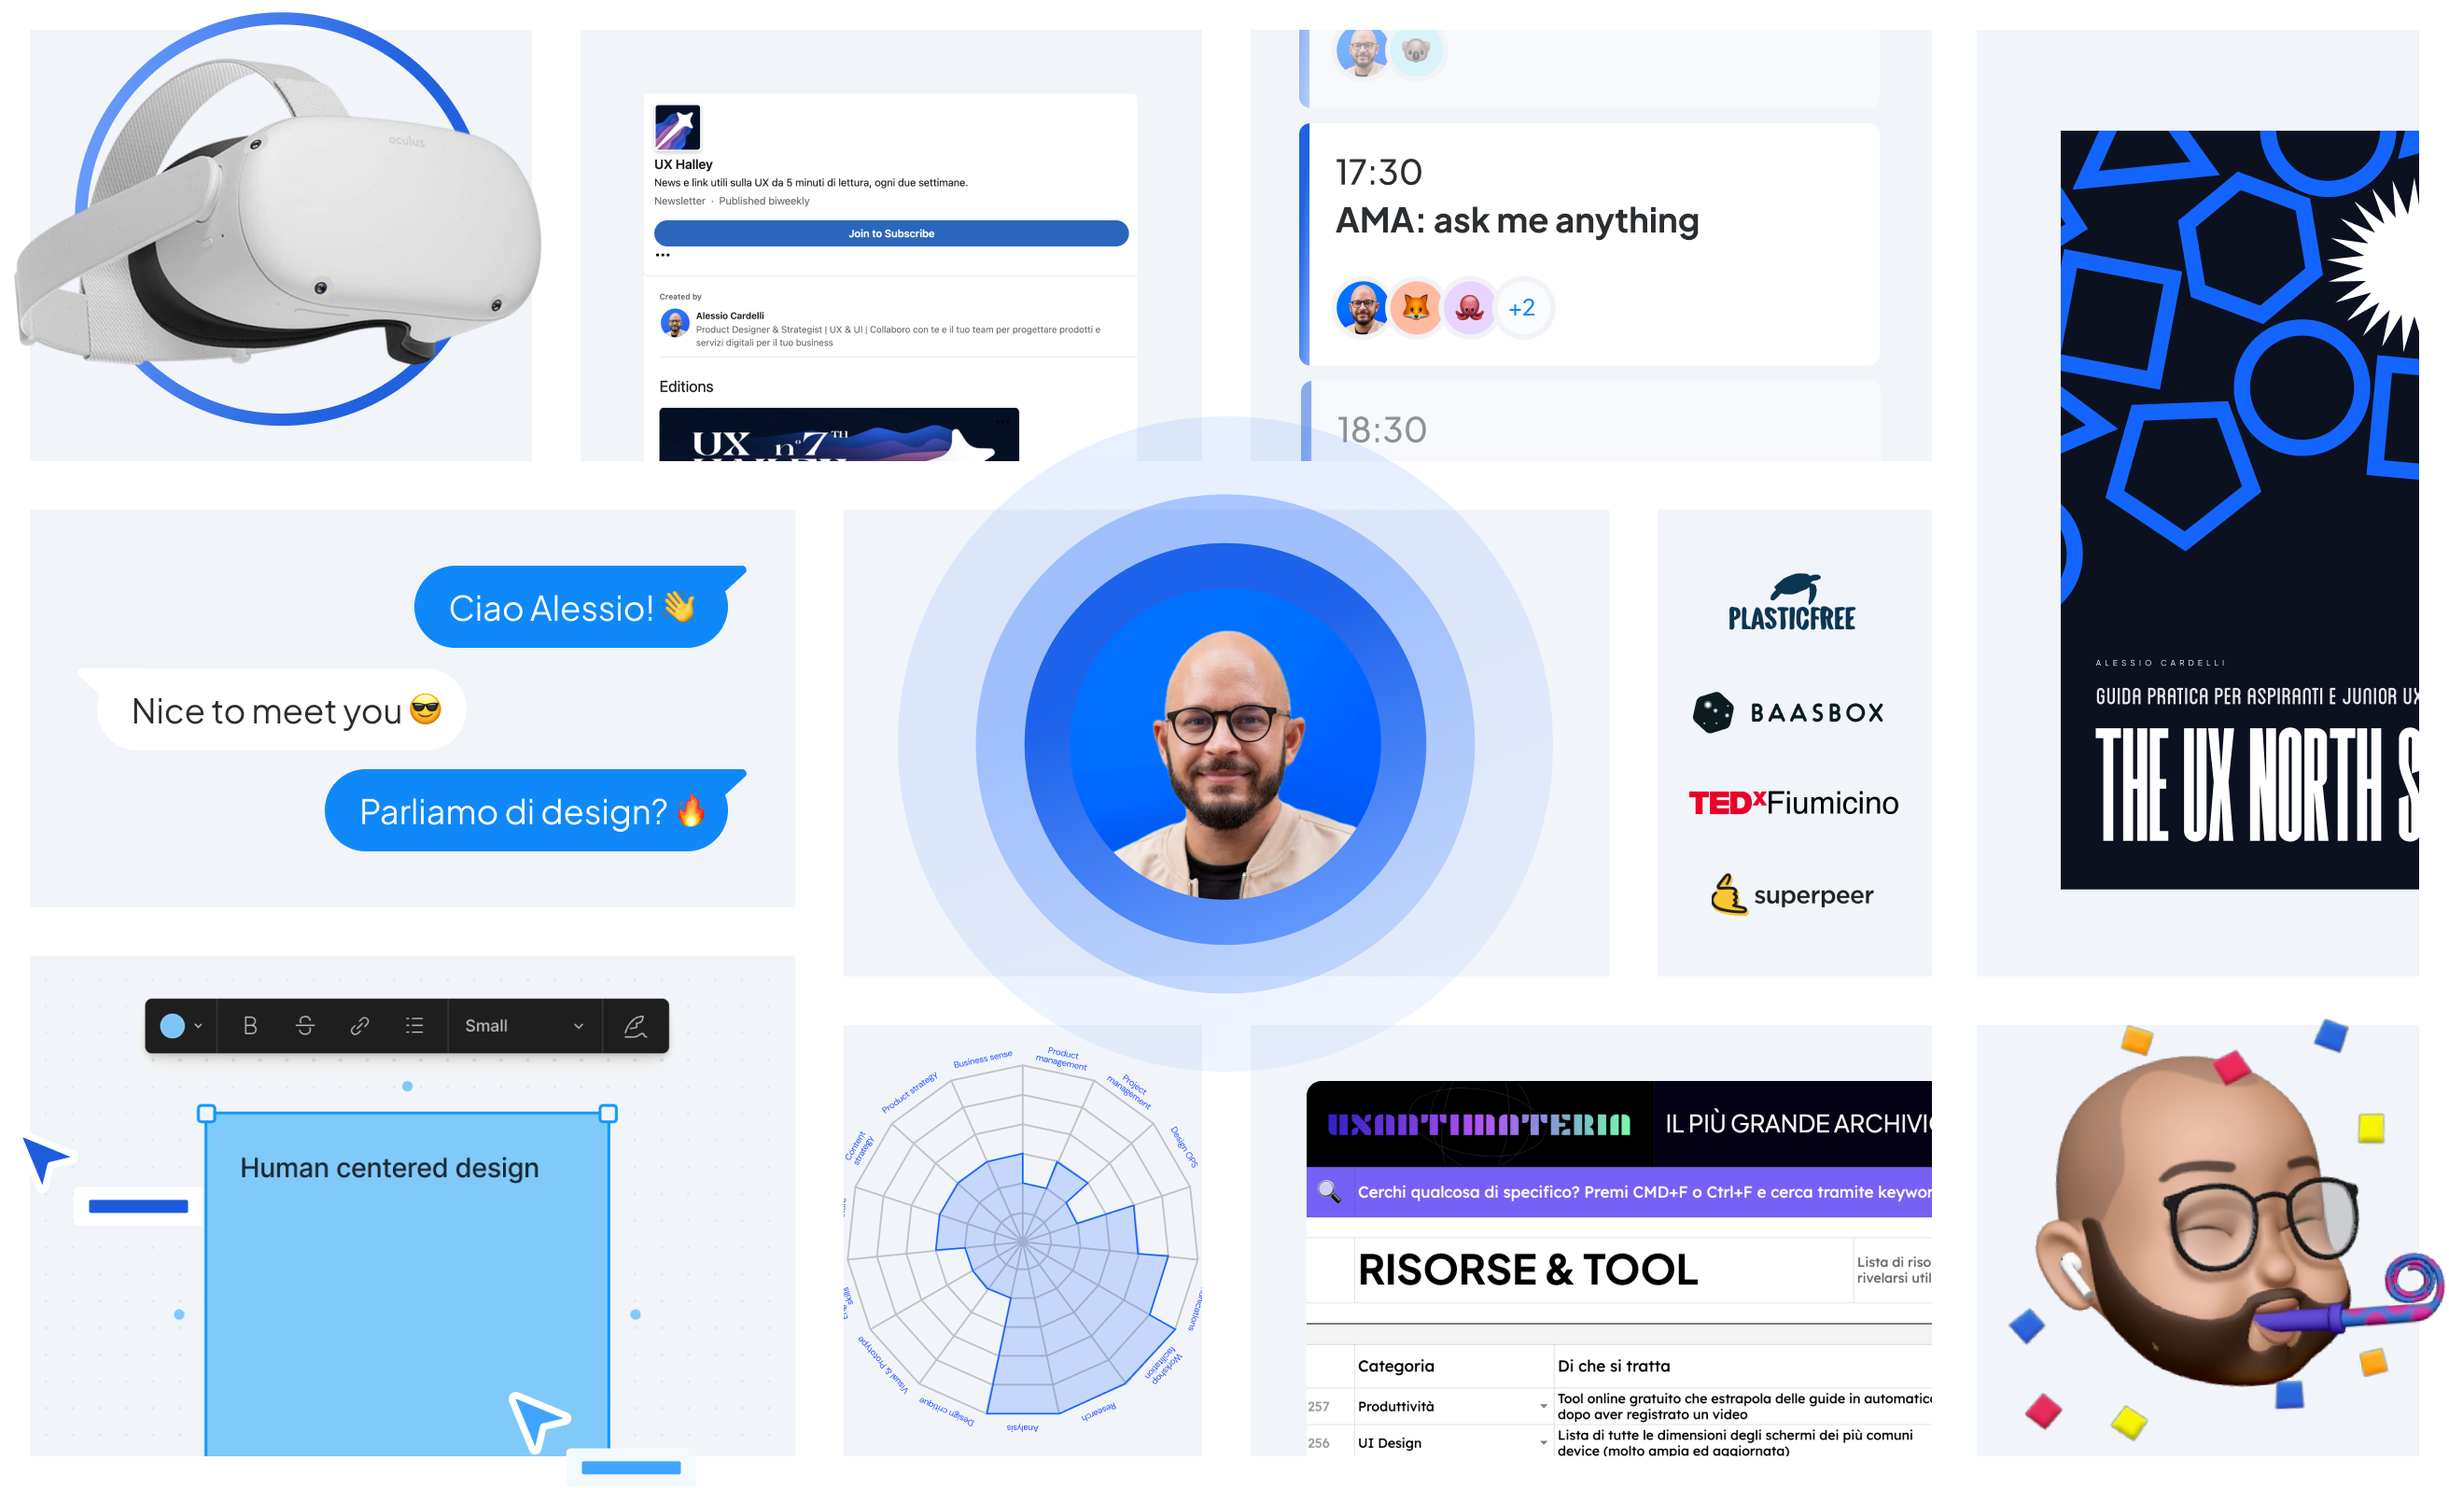
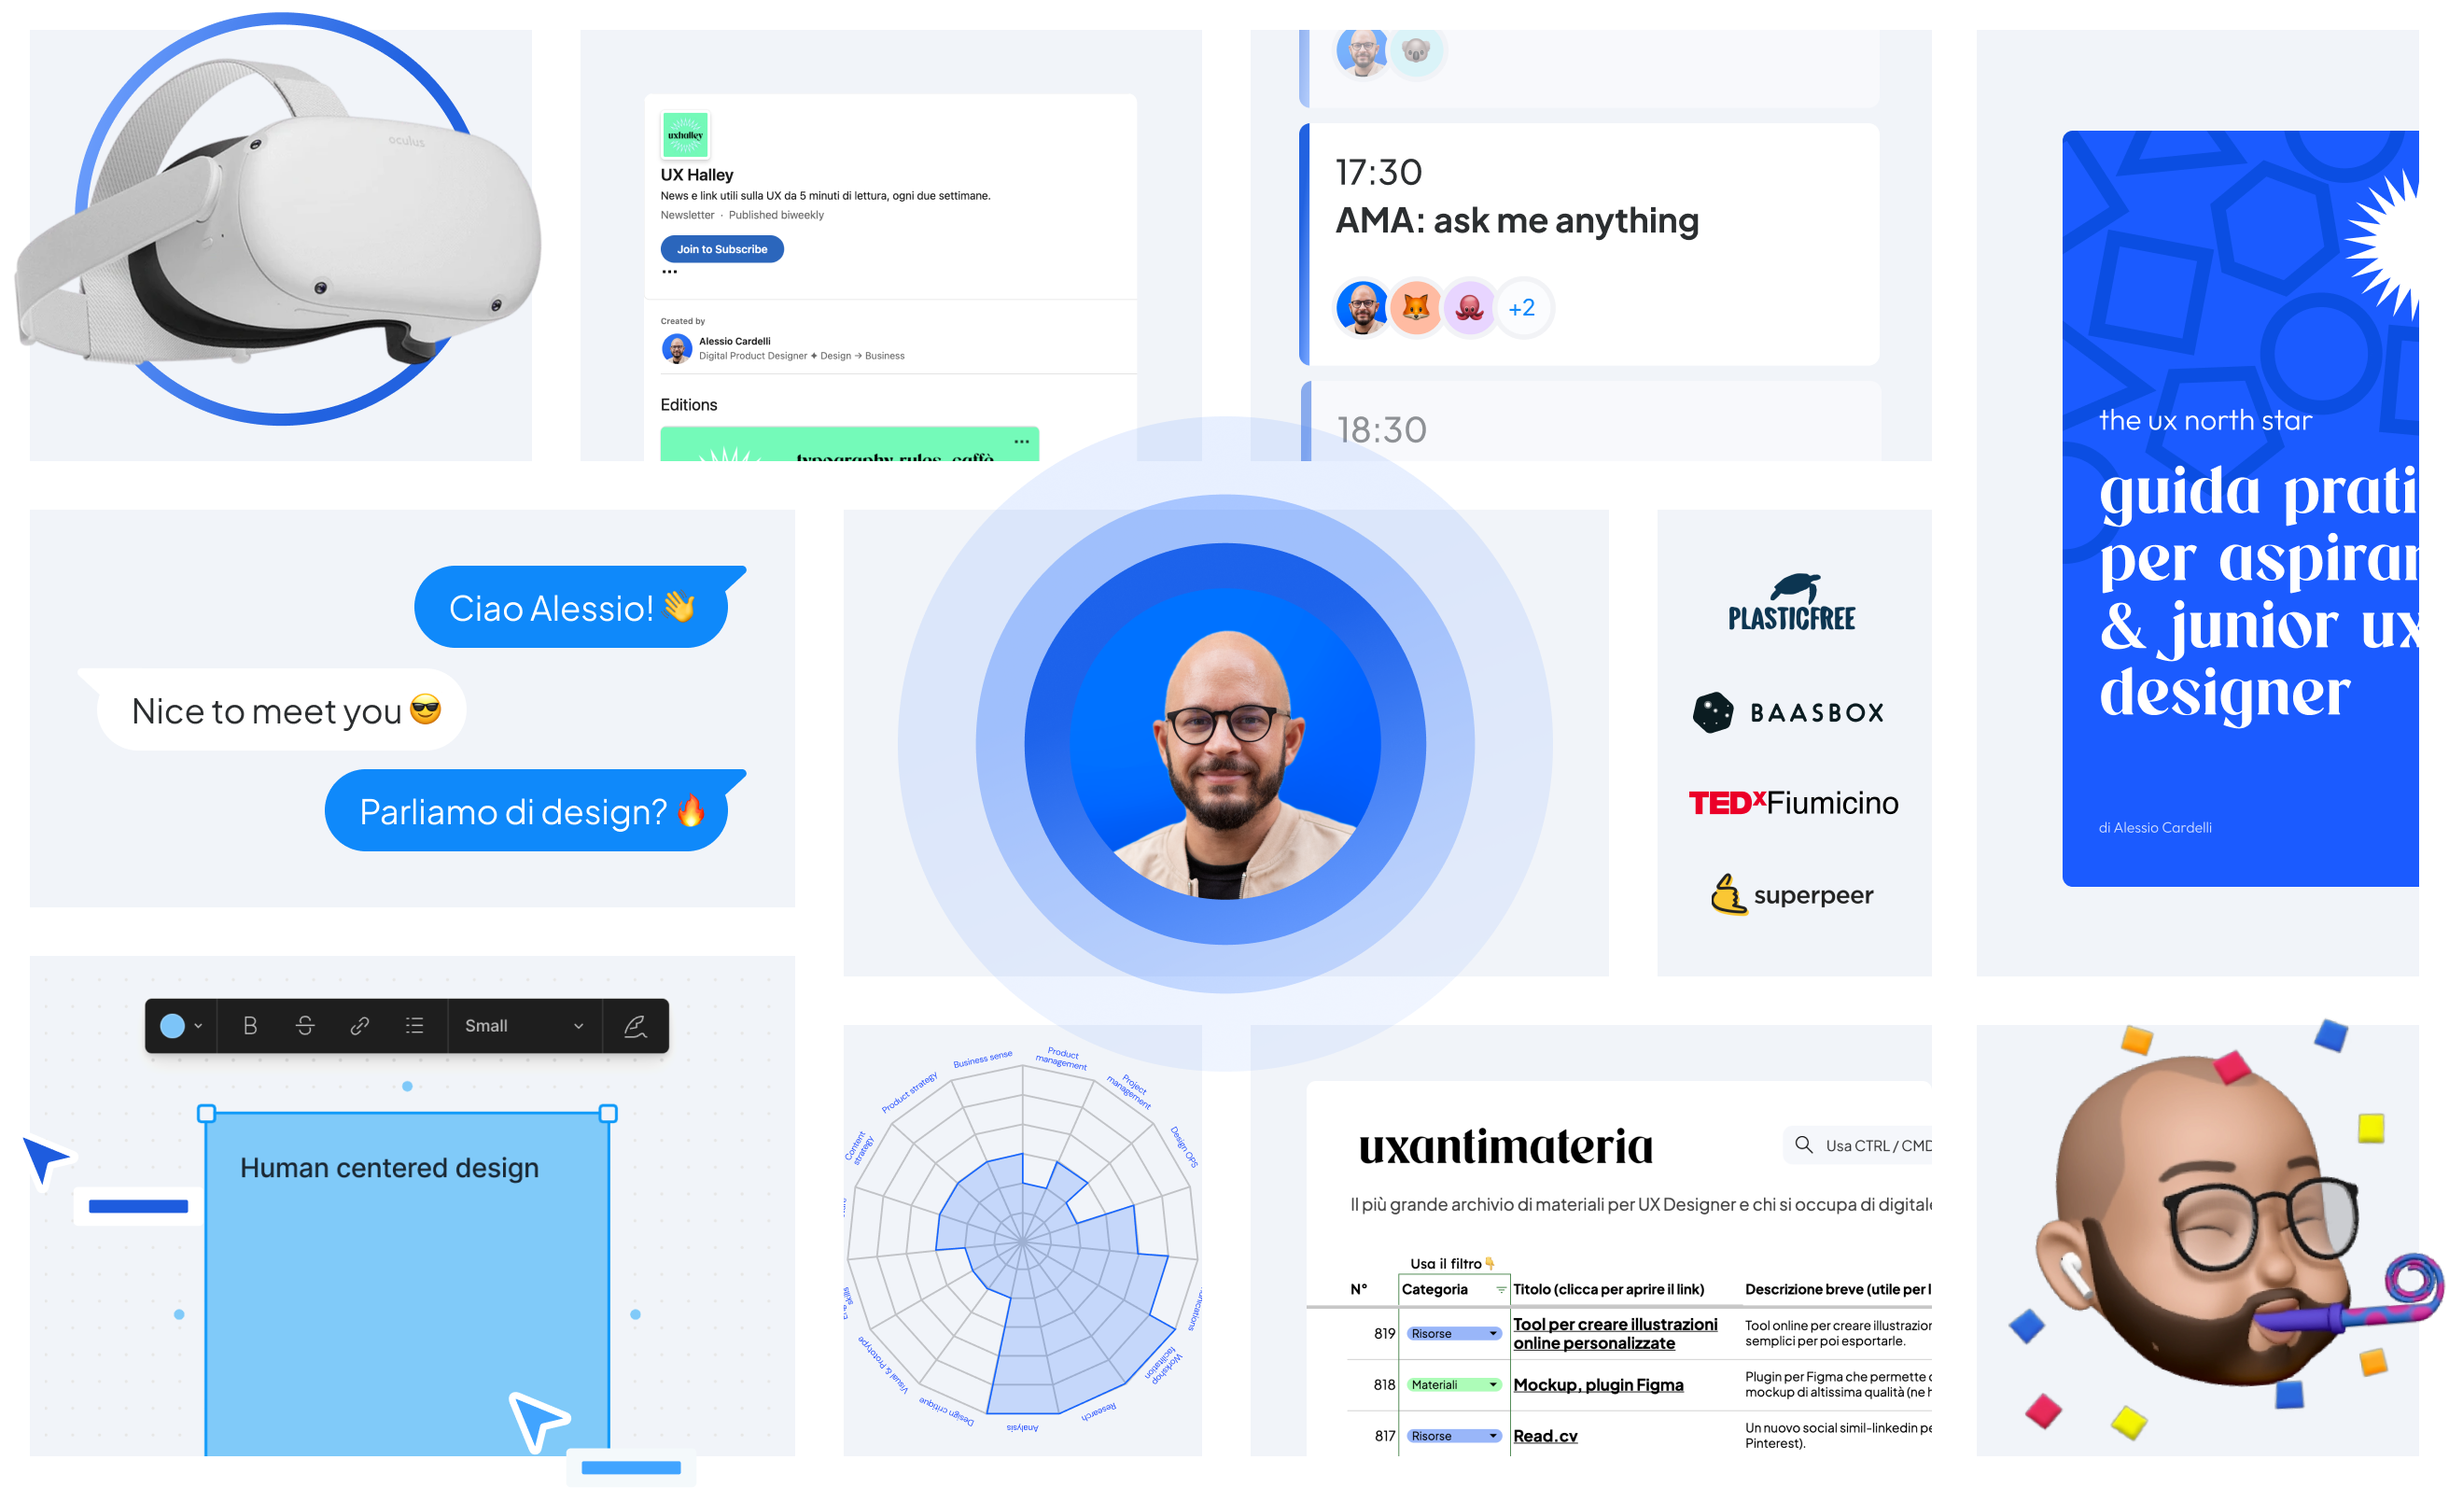
Versione 5.0

Changed region(s): [[0.8438, 0.0615, 1.0, 0.6148], [0.5312, 0.707, 0.8125, 0.9837], [0.25, 0.0615, 0.4688, 0.3074]]

diff --git a/theuxns.html b/theuxns.html
@@ -65,17 +65,19 @@ xxx
   </div>
   <div class="menu-mobile">menu</div>
 </div>
+
+<div class="fab"><a href="newsletter.html" title="Newsletter Substack di Alessio Cardelli" target="_blank"></a></div>
 <!-- - - - - - - - - - - - - - - - - - - - - - MENU - - - - - - - - - - - - - - - - - - - - -->
 <!--
 xxx
 xxx
  -->
 <!-- - - - - - - - - - - - - - - - - - - - - - CONTENUTO - - - - - - - - - - - - - - - - - - - - -->
-<h1 class="big-title">The UX North star, un progetto a +360°.</h1>
+<h1 class="big-title">Dare supporto alla carriera di 1 milione di designer.</h1>
 <div class="quote-group quote-group-home">
-  <img class="foto-quote" src="assets/theuxns/theuxns-profilo.png" alt="Immagine di Alessio Cardelli in primo piano su sfondo blu"></img>
-  <h2 class="quote-bold">Dedicato a junior e aspiranti UX designer, una suite di contenuti di alta qualità e dal grande valore, per fornire un boost a chi ne ha bisogno.</h2>
-  <h3 class="quote-regular">Trovare la propria strada per inserirsi in un nuovo mondo lavorativo non è semplice, che tu sia junior o stia facendo uno switch di carriera. Per questo motivo ho creato il progetto The UX North Star, che propone una serie di contenuti per chi vuole fare i primi passi.</h3>
+  <img class="foto-quote" src="assets/general/alessio.png" alt="Immagine di Alessio Cardelli in primo piano su sfondo blu"></img>
+  <h2 class="quote-bold">È questo uno dei miei obiettivi professionali: supportare 1 milione di designer nella propria carriera, crescita e formazione.</h2>
+  <h3 class="quote-regular">Trovare la propria strada per inserirsi in un nuovo mondo lavorativo non è semplice, che tu sia junior o stia facendo uno switch di carriera. Per questo motivo ho creato queste iniziative editoriali e formative, una serie di contenuti per designer di ogni livello.</h3>
 </div>
 <!-- - - - - - - - - - - - - - - - - - - - - - SEPARATORE - - - - - - - - - - - - - - - - - - - - -->
 <div class="photo-grid margin-bottom-80 reveal">
@@ -89,12 +91,12 @@ xxx
   <img class="photo-img" src="assets/theuxns/libro_3.png" alt="Immagine di uno dei touchpoint de The UX North Star"></img>
   </div>
 </div>
-<h2 class="testo-big">Il libro, per rispondere alle domande sulla UX.</h2>
+<h2 class="testo-big">The UX North Star, guida pratica per UX designer.</h2>
 <p class="testo margin-bottom-80">Consigli pratici ed esperienze reali per percorrere i primi passi e trovare la direzione della propria formazione e carriera nel mondo della user experience e della progettazione di prodotti digitali.
 <br><br>
 Letto, recensito  e apprezzato già da decine di UX designer, sia junior che senior con più esperienza alle spalle. Un must to have nella propria libreria per un vero boost alla propria carriera.
 <br><br>
-<strong>+50 recensioni con una media di 4.9 ⭐</strong></p>
+<strong>+75 recensioni con una media di 4.9 ⭐</strong></p>
 <div class="content-list">
   <div class="content-box"><p class="content-text"><a target="_blank" class="link" href="libroux.html" title="Link alla pagina Amazon de The UX North Star, il libro">Acquista il libro su Amazon ↗</a></p><p class="content-sub">Puoi sceglierlo tra formato cartaceo o digitale, ce n’è per tutti i gusti.</p></div>
   <div class="content-box"><p class="content-text"><a target="_blank" class="link" href="https://www.kobo.com/it/it/ebook/the-ux-north-star" title="Link alla pagina Kobo de The UX North Star, il libro">Acquista il libro per Kobo ↗</a></p><p class="content-sub">Solo in formato digitale per Kobo Rakuten.</p></div>
@@ -114,7 +116,7 @@ Letto, recensito  e apprezzato già da decine di UX designer, sia junior che sen
 <h2 class="testo-big">UX Halley, la newsletter per chi non vuole rimanere mai indietro.</h2>
 <p class="testo margin-bottom-80">Ogni 14 giorni, ogni due lunedì mattina, una decina di “chicche” sul design per meno di 5 minuti di lettura. Contenuti riguardo user experience, innovazione e tecnologia. Se ti interessano i link che trovi al suo interno poi te li approfondisci in autonomia, altrimenti lasci passare la cometa e attendi la prossima. Facile facile.
 <br><br>
-<strong>Siamo già +1000 persone, tu che fai?</strong></p>
+<strong>Siamo già +1500 persone, tu che fai?</strong></p>
 <div class="content-list">
   <div class="content-box"><p class="content-text"><a target="_blank" class="link" href="uxhalley.html" title="Link alla pagina di iscrizione per UX Halley, newsletter">Iscriviti gratuitamente a UX Halley ↗</a></p><p class="content-sub">Riceverai le prossime ma puoi sempre recuperare le precedenti se vuoi.</p></div>
 </div>
@@ -133,7 +135,7 @@ Letto, recensito  e apprezzato già da decine di UX designer, sia junior che sen
 <h2 class="testo-big">UX Antimateria, la sostanza più preziosa dell’universo della UX.</h2>
 <p class="testo margin-bottom-80">+800 risorse, categorizzate e ordinate per te, in continuo aggiornamento di settimana in settimana. In sostanza, se cerchi qualcosa, ti conviene farlo prima qui che su Google. Si tratta di un progetto collaborativo in cui anche tu se vuoi puoi contribuire: trovi qualcosa di interessante? Me lo condividi, io lo metto nel file con il tuo nome per darti il giusto spazio.
 <br><br>
-<strong>Già nelle mani di +500 designer, non te lo perdere!</strong></p>
+<strong>Già nelle mani di +1000 designer, non te lo perdere!</strong></p>
 <div class="content-list">
   <div class="content-box"><p class="content-text"><a target="_blank" class="link" href="uxantimateria.html" title="Link al form di richiesta accesso a UX Antimateria">Richiedi accesso a UX Antimateria ↗</a></p><p class="content-sub">Compila i dati e nel giro di poche ore ti condividerò il file (sì, lo faccio a mano uno per uno).</p></div>
 </div>

diff --git a/projects.html b/projects.html
@@ -82,9 +82,9 @@ xxx
   <div class="project-box reveal">
     <img class="project-img" src="assets/projects/theuxns.png" alt="Immagine di un progetto di Alessio Cardelli"></img>
     <div class="project-texts">
-      <h2 class="project-title">The UX North star project: contenuti di altissimo valore per aspiranti UX designer.</h2>
-      <p class="project-description">Quando si è agli inizi non è semplice, lo so bene. Per questo motivo ho creato questo progetto: contenuti, di diverso tipo, di grande valore, per lo più gratuiti, destinati a chi vuole fare i primi passi nel mondo della UX.
-      <br><br><a class="link" title="Link ad un progetto di Alessio Cardelli" href="theuxns.html">Scopri di più sul progetto  →</a></p>
+      <h2 class="project-title">The UX North Star, UX Halley, UX Antimateria: iniziative per designer.</h2>
+      <p class="project-description">Quando si è agli inizi non è semplice, lo so bene. Per questo motivo ho creato questi progetti: contenuti, di diverso tipo, di grande valore, per lo più gratuiti, destinati a chi vuole fare i primi passi nel mondo della UX.
+      <br><br><a class="link" title="Link ad un progetto di Alessio Cardelli" href="theuxns.html">Scopri di più sulle iniziative  →</a></p>
     </div>
   </div>
 <div class="project-box reveal">
@@ -103,20 +103,12 @@ xxx
     <br><br><a class="link" title="Link ad un progetto di Alessio Cardelli" href="openai.html">Scopri di più sul progetto  →</a></p>
   </div>
 </div>
-<div class="project-box reveal">
+<div class="project-box no-margin-bottom reveal">
   <img class="project-img" src="assets/projects/tedxfiumicino.png" alt="Immagine di un progetto di Alessio Cardelli"></img>
   <div class="project-texts">
     <h2 class="project-title">TEDxFiumicino: tra scienza, mare, cultura, cielo e innovazione.</h2>
     <p class="project-description">Sono licenziatario TEDxFiumicino e insieme ad un team eterogeneo, competente e visionario coopero per organizzare un (super) evento per la città di Fiumicino, che vede affrontare temi di cultura, scienza, informazione e futuro.
     <br><br><a class="link" target="_blank" title="Link ad un progetto di Alessio Cardelli" href="http://tedxfiumicino.com/">Approfondisci sul sito dell’evento  ↗</a></p>
-  </div>
-</div>
-<div class="project-box no-margin-bottom reveal">
-  <img class="project-img" src="assets/projects/uxarena.png" alt="Immagine di un progetto di Alessio Cardelli"></img>
-  <div class="project-texts">
-    <h2 class="project-title">UX Arena: il luogo in cui richiedere un brief di progetto vero, per formazione vera.</h2>
-    <p class="project-description">La formazione in user experience è una cosa complessa. È fatta di molta teoria e di moltissima pratica. Ma la pratica non è cosa semplice da fare, perché serve di avere qualcosa di verosimile. Altrimenti, che pratica è?
-    <br><br>Presto online 🚧</p>
   </div>
 </div>
 </div>

diff --git a/assets/stylesheet.css b/assets/stylesheet.css
@@ -397,6 +397,35 @@ h3 {
   display: none;
 }
 
+.fab {
+  height: 72px;
+  width: 72px;
+  display: block;
+  background-color: #0067ff;
+  position: fixed;
+  bottom: 56px;
+  right: 56px;
+  border-radius: 36px;
+  box-shadow: 0px 10px 20px -5px #e2e2e9;
+  z-index: 99999;
+}
+
+.fab a {
+  display: block;
+  height: 72px;
+  width: 72px;
+  background-image: url(general/substack.png);
+  background-size: 50%;
+  background-repeat: no-repeat;
+  background-position: center;
+}
+
+.fab:hover, .fab a:hover {
+  background-color: #034dbb !important;
+  border-radius: 36px;
+  z-index: 99999;
+}
+
 
 /* TABLET ORIZZONTALE */
 @media (max-width: 1440px) {
